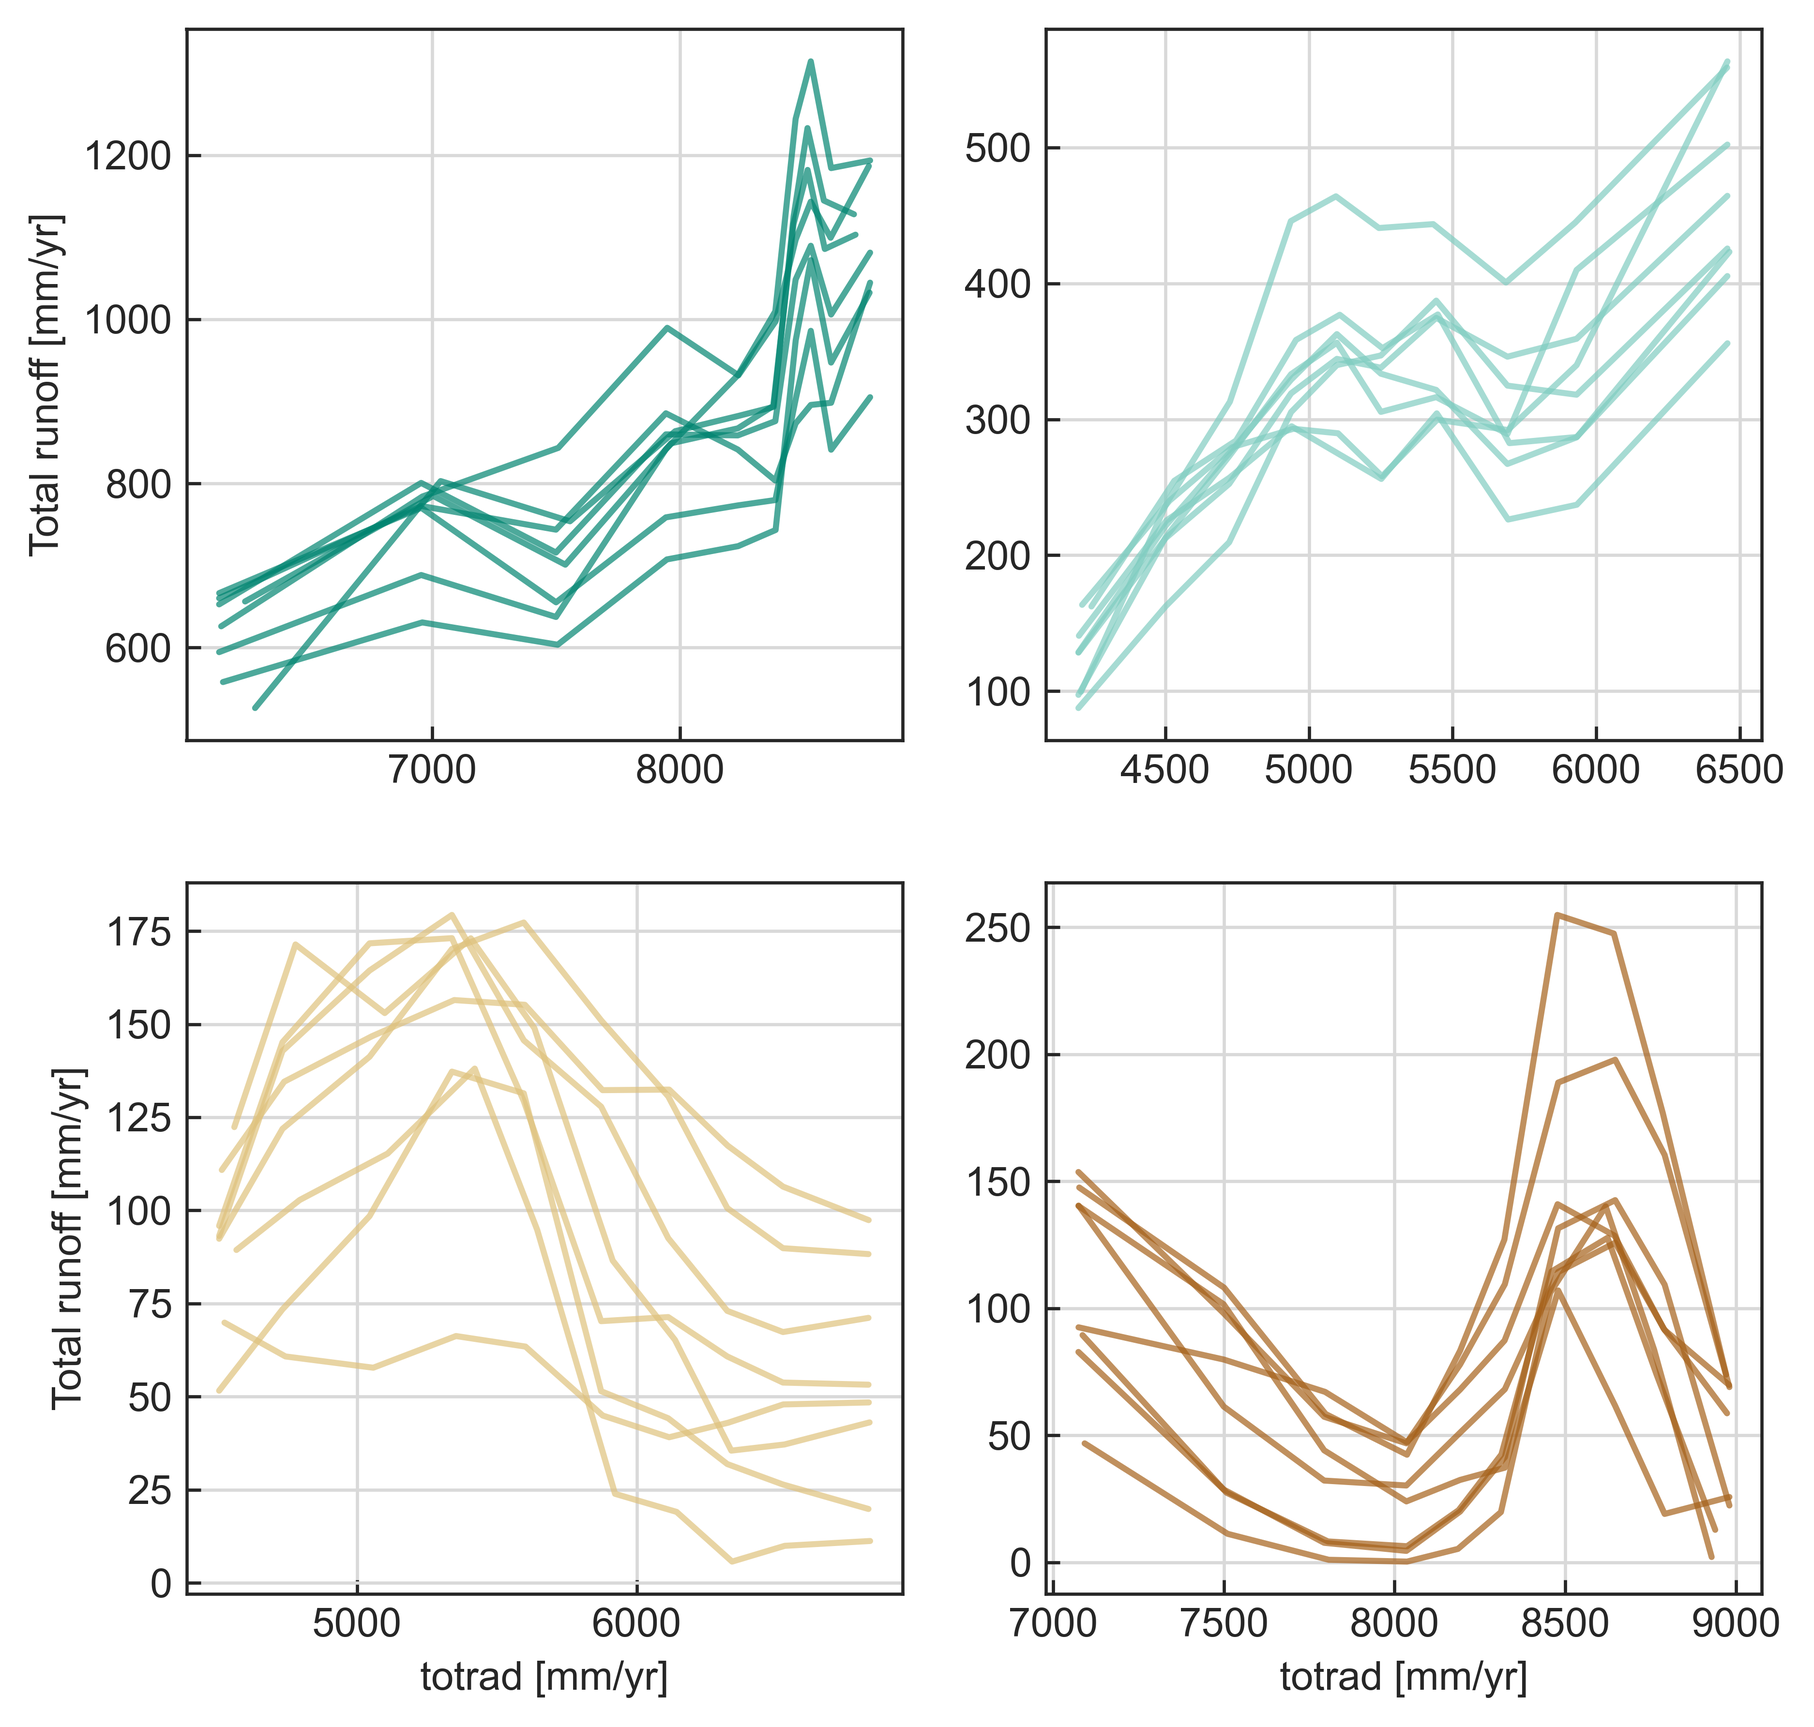
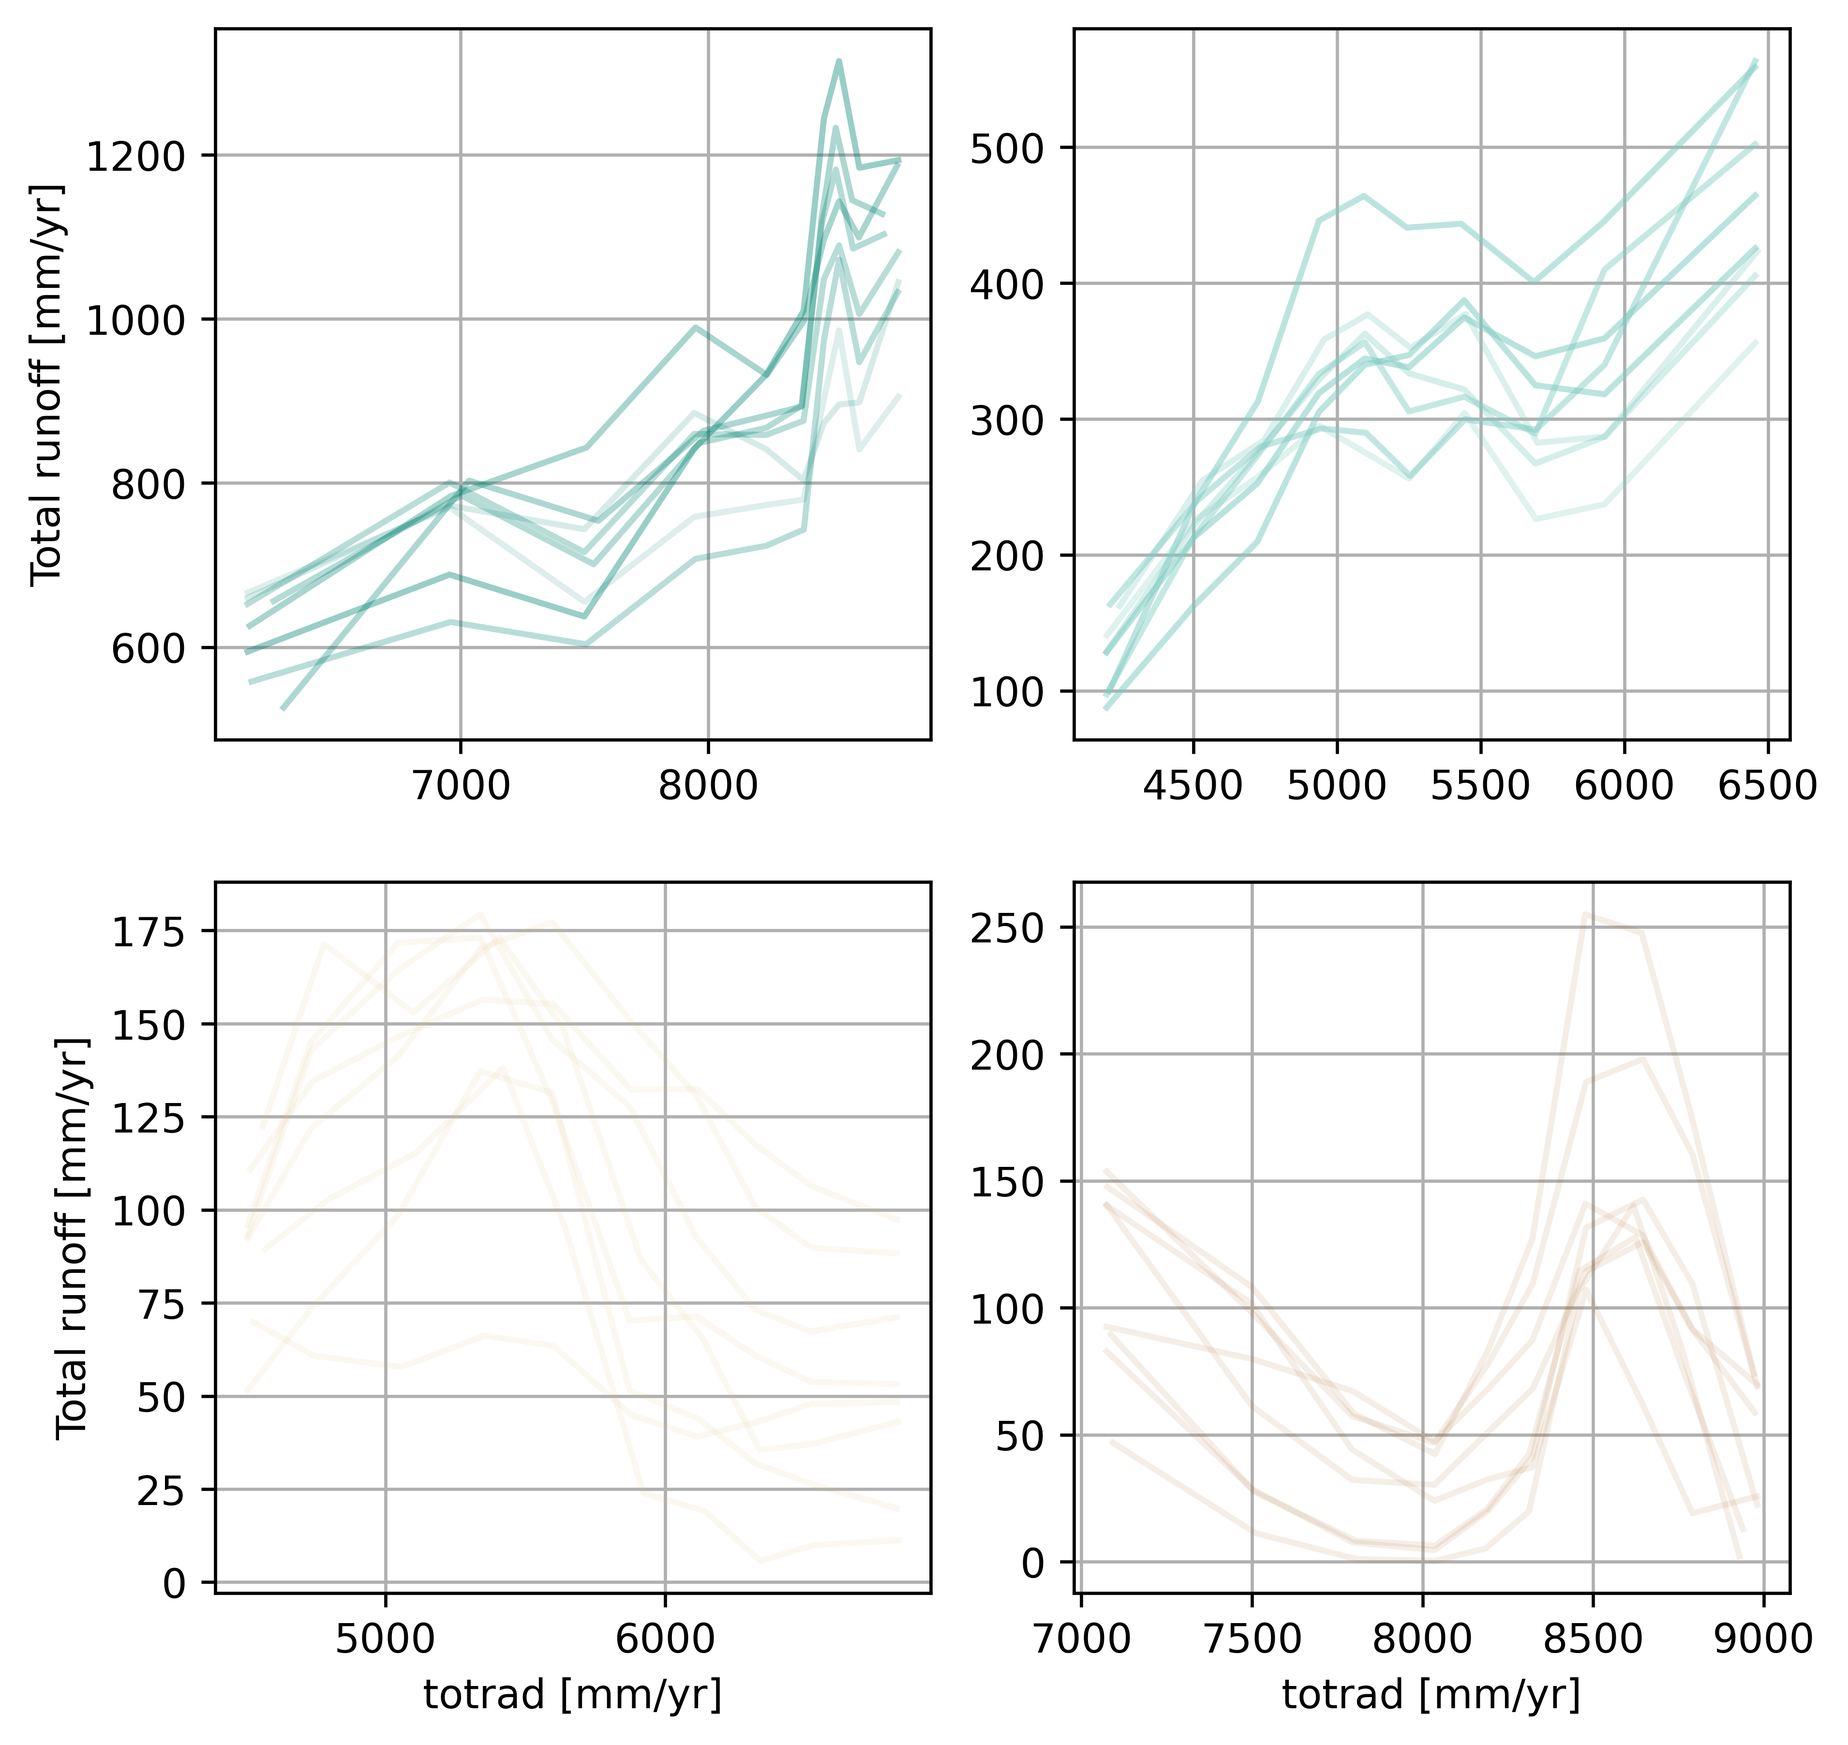
work on code

diff --git a/plotting_script_lines.py b/plotting_script_lines.py
@@ -47,9 +47,9 @@ def lineplots(df):
     df = df.replace(new_names, regex=True)
 
     # define variables
-    x_name_list = ["Precipitation", "Net radiation", "totrad"]
-    x_unit_list = [" [mm/yr]", " [mm/yr]", " [mm/yr]"]
-    x_lim_list = [[-100, 3100], [-100, 2100], [2400, 10100]]
+    x_name_list = ["Precipitation", "Net radiation"] #, "totrad"
+    x_unit_list = [" [mm/yr]", " [mm/yr]"] #, " [mm/yr]"
+    x_lim_list = [[-100, 3100], [-100, 2100]] #, [2400, 10100]
     y_name_list = ["Actual evapotranspiration", "Groundwater recharge", "Total runoff"]
     y_unit_list = [" [mm/yr]", " [mm/yr]", " [mm/yr]"]
     y_lim_list = [[-100, 2100], [-100, 2100], [-100, 2100]]
@@ -101,7 +101,7 @@ def plot_Budyko(d, domain_list, x_name, y_name, axs, n):
         subgroup = df[d] == domain_list[i]
         x = df.loc[subgroup, x_name]
         y = df.loc[subgroup, y_name]
-        plotting_fcts.plot_lines(x, y, axs[i], data_palette, domains, domain_list[i], n=n, ls="dashed")
+        plotting_fcts.plot_lines(x, y, axs[i], data_palette, domains, domain_list[i], n=n, ls="solid")
 
 def plot_FLUXCOM(d, domain_list, x_name, y_name, axs, n):
 
@@ -113,19 +113,21 @@ def plot_FLUXCOM(d, domain_list, x_name, y_name, axs, n):
         subgroup = df[d] == domain_list[i]
         x = df.loc[subgroup, x_name]
         y = df.loc[subgroup, y_name]
-        plotting_fcts.plot_lines(x, y, axs[i], data_palette, domains, domain_list[i], n=n)
+        plotting_fcts.plot_lines(x, y, axs[i], data_palette, domains, domain_list[i], n=n, ls='dashed')
 
 def plot_FLUXNET(d, domain_list, x_name, y_name, axs, n):
 
     data_palette = {"wet warm": '#808080', "dry warm": '#808080',
                     "wet cold": '#808080', "dry cold": '#808080'}
+    data_palette = {"wet warm": '#3B3B3B', "dry warm": '#3B3B3B',
+                    "wet cold": '#3B3B3B', "dry cold": '#3B3B3B'}
     df = pd.read_csv("data/" + "FLUXNET_prepared.csv", sep=',')
 
     for i in range(0, 4):
         subgroup = df[d] == domain_list[i]
         x = df.loc[subgroup, x_name]
         y = df.loc[subgroup, y_name]
-        plotting_fcts.plot_lines(x, y, axs[i], data_palette, domains, domain_list[i], n=n)
+        plotting_fcts.plot_lines(x, y, axs[i], data_palette, domains, domain_list[i], n=n, ls='dotted')
 
 def plot_Moeck(d, domain_list, x_name, y_name, axs, n):
 
@@ -137,46 +139,55 @@ def plot_Moeck(d, domain_list, x_name, y_name, axs, n):
         subgroup = df[d] == domain_list[i]
         x = df.loc[subgroup, x_name]
         y = df.loc[subgroup, y_name]
-        plotting_fcts.plot_lines(x, y, axs[i], data_palette, domains, domain_list[i], n=n)
+        plotting_fcts.plot_lines(x, y, axs[i], data_palette, domains, domain_list[i], n=n, ls='dotted')
 
 def plot_MacDonald(d, domain_list, x_name, y_name, axs, n):
 
     data_palette = {"wet warm": '#808080', "dry warm": '#808080',
                     "wet cold": '#808080', "dry cold": '#808080'}
+    data_palette = {"wet warm": '#3B3B3B', "dry warm": '#3B3B3B',
+                    "wet cold": '#3B3B3B', "dry cold": '#3B3B3B'}
+
     df = pd.read_csv("data/" + "MacDonald_prepared.csv", sep=',')
 
     for i in [3]:
         subgroup = df[d] == domain_list[i]
         x = df.loc[subgroup, x_name]
         y = df.loc[subgroup, y_name]
-        plotting_fcts.plot_lines(x, y, axs[i], data_palette, domains, domain_list[i], n=n)
+        plotting_fcts.plot_lines(x, y, axs[i], data_palette, domains, domain_list[i], n=n, ls='dashed')
 
 def plot_GSIM(d, domain_list, x_name, y_name, axs, n):
 
     data_palette = {"wet warm": '#826d8c', "dry warm": '#826d8c',
                     "wet cold": '#826d8c', "dry cold": '#826d8c'}
+    data_palette = {"wet warm": '#3B3B3B', "dry warm": '#3B3B3B',
+                    "wet cold": '#3B3B3B', "dry cold": '#3B3B3B'}
     df = pd.read_csv("data/" + "GSIM_prepared.csv", sep=',')
 
     for i in range(0, 4):
         subgroup = df[d] == domain_list[i]
         x = df.loc[subgroup, x_name]
         y = df.loc[subgroup, y_name]
-        plotting_fcts.plot_lines(x, y, axs[i], data_palette, domains, domain_list[i], n=n)
+        plotting_fcts.plot_lines(x, y, axs[i], data_palette, domains, domain_list[i], n=n, ls='dotted')
 
 def plot_GRUN(d, domain_list, x_name, y_name, axs, n):
 
     data_palette = {"wet warm": '#808080', "dry warm": '#808080',
                     "wet cold": '#808080', "dry cold": '#808080'}
+    data_palette = {"wet warm": '#3B3B3B', "dry warm": '#3B3B3B',
+                    "wet cold": '#3B3B3B', "dry cold": '#3B3B3B'}
     df = pd.read_csv("data/" + "GRUN_prepared.csv", sep=',')
 
     for i in range(0, 4):
         subgroup = df[d] == domain_list[i]
         x = df.loc[subgroup, x_name]
         y = df.loc[subgroup, y_name]
-        plotting_fcts.plot_lines(x, y, axs[i], data_palette, domains, domain_list[i], n=n)
+        plotting_fcts.plot_lines(x, y, axs[i], data_palette, domains, domain_list[i], n=n, ls='dashdot')
 
 def plot_CARAVAN(d, domain_list, x_name, y_name, axs, n):
 
+    data_palette = {"wet warm": '#3B3B3B', "dry warm": '#3B3B3B',
+                    "wet cold": '#3B3B3B', "dry cold": '#3B3B3B'}
     data_palette = {"wet warm": '#3B3B3B', "dry warm": '#3B3B3B',
                     "wet cold": '#3B3B3B', "dry cold": '#3B3B3B'}
     df = pd.read_csv("data/" + "CARAVAN_prepared.csv", sep=',')
@@ -185,7 +196,7 @@ def plot_CARAVAN(d, domain_list, x_name, y_name, axs, n):
         subgroup = df[d] == domain_list[i]
         x = df.loc[subgroup, x_name]
         y = df.loc[subgroup, y_name]
-        plotting_fcts.plot_lines(x, y, axs[i], data_palette, domains, domain_list[i], n=n)
+        plotting_fcts.plot_lines(x, y, axs[i], data_palette, domains, domain_list[i], n=n, ls='dashed')
 
 def multilineplots(df):
 
@@ -248,26 +259,25 @@ def multilineplots(df):
                 #axs[i].set_title(domain_list[i])
                 plt.grid('major')
 
-                # todo: add data (perhaps with functions...)
                 if x_name=="Precipitation" and y_name=="Actual evapotranspiration":
-                    plot_FLUXCOM(d, domain_list, x_name, y_name, axs, n)
-                    #plot_FLUXNET(d, domain_list, x_name, y_name, axs, n)
-                    plot_Budyko(d, domain_list, x_name, y_name, axs, n)
+                    plot_FLUXCOM(d, domain_list, "Precipitation GSWP3", y_name, axs, n)
+                    #plot_FLUXNET(d, domain_list, "Precipitation", y_name, axs, n)
+                    plot_Budyko(d, domain_list, "Precipitation", y_name, axs, n)
 
                 if x_name=="Precipitation" and y_name=="Groundwater recharge":
-                    plot_MacDonald(d, domain_list, x_name, y_name, axs, n)
-                    plot_Moeck(d, domain_list, x_name, y_name, axs, n)
+                    plot_MacDonald(d, domain_list, "Precipitation", y_name, axs, n)
+                    plot_Moeck(d, domain_list, "Precipitation GSWP3", y_name, axs, n)
 
                 if x_name=="Precipitation" and y_name=="Total runoff":
-                    #plot_GSIM(d, domain_list, x_name, y_name, axs, n)
-                    plot_GRUN(d, domain_list, x_name, y_name, axs, n)
-                    plot_CARAVAN(d, domain_list, x_name, y_name, axs, n)
-                    plot_Budyko(d, domain_list, x_name, y_name, axs, n)
+                    #plot_GSIM(d, domain_list, "Precipitation", y_name, axs, n)
+                    plot_GRUN(d, domain_list, "Precipitation GSWP3", y_name, axs, n)
+                    plot_CARAVAN(d, domain_list, "Precipitation", y_name, axs, n)
+                    plot_Budyko(d, domain_list, "Precipitation", y_name, axs, n)
 
                 if x_name=="Net radiation" and y_name=="Actual evapotranspiration":
-                    plot_FLUXCOM(d, domain_list, x_name, y_name, axs, n)
-                    #plot_FLUXNET(d, domain_list, x_name, y_name, axs, n)
-                    plot_Budyko(d, domain_list, x_name, y_name, axs, n)
+                    plot_FLUXCOM(d, domain_list, "Net radiation", y_name, axs, n)
+                    #plot_FLUXNET(d, domain_list, "Precipitation", y_name, axs, n)
+                    plot_Budyko(d, domain_list, "Net radiation", y_name, axs, n)
 
             fig.savefig(results_path + x_name + '_' + y_name + "_multiline_plot.png", dpi=600, bbox_inches='tight')
             plt.close()
@@ -333,6 +343,6 @@ def regressionplots(df):
 
 ### run functions ###
 
-lineplots(df)
+#lineplots(df)
 multilineplots(df)
-regressionplots(df)
+#regressionplots(df)

diff --git a/plotting_script_maps.py b/plotting_script_maps.py
@@ -184,13 +184,14 @@ def white_spaces_plots(df, ghms):
 
     # define variables
     name_list = ["Actual evapotranspiration", "Groundwater recharge", "Total runoff"]
-    lim_list = [[0, 1], [0, 1], [0, 1]] #lim_list = [[0, .5], [0, .5], [0, .5]] #lim_list = [[0, 2], [0, 2], [0, 2]]
-    #lim_list = [[0, 200], [0, 200], [0, 200]]
-    lim_list = [[0, 1000], [0, 1000], [0, 1000]]
+    lim_list = [[0, 1], [0, 1], [0, 1]] #
+    lim_list = [[0, .2], [0, .2], [0, .2]] #lim_list = [[0, 2], [0, 2], [0, 2]]
+    lim_list = [[0, 200], [0, 200], [0, 200]]
+    #lim_list = [[0, 1000], [0, 1000], [0, 1000]]
     color_scale_list = ['Greens', 'Purples', 'Blues']
 
     # define plot type (coefficient of variation or standard deviation of ratio)
-    var_type = 'mean'#'CoV' #'std' #'ratio'
+    var_type = 'std'#'mean'#'CoV' #'std' #'ratio'
 
     # check if folder exists
     results_path = "results/white_spaces/"
@@ -227,7 +228,7 @@ def white_spaces_plots(df, ghms):
 
         plotting_fcts.plot_map(df_tmp["lon"], df_tmp["lat"], df_tmp["var"],
                                unit, var_type + " (" + name + ")", bounds=np.linspace(lim[0], lim[1], 11),
-                               colormap=color_scale, colormap_reverse=False)
+                               colormap=color_scale, colormap_reverse=True)
         plotting_fcts.mask_greenland(data_path)
         ax = plt.gca()
         ax.coastlines(linewidth=0.25)
@@ -320,9 +321,9 @@ def most_deviating_model_plot(df, ghms):
 
 ### run functions ###
 
-globalmeans(df, ghms, domains)
-map_plots(df, ghms)
-aridity_map_plots(df, ghms)
-outlier_plots(df, ghms)
+#globalmeans(df, ghms, domains)
+#map_plots(df, ghms)
+#aridity_map_plots(df, ghms)
+#outlier_plots(df, ghms)
 white_spaces_plots(df, ghms)
-most_deviating_model_plot(df, ghms)
+#most_deviating_model_plot(df, ghms)

diff --git a/helpers/plotting_fcts.py b/helpers/plotting_fcts.py
@@ -111,9 +111,13 @@ def plot_lines(x, y, ax, palette, domains, domain, n=11, ls="solid"):
     p_05_stat, p_25_stat, p_75_stat, p_95_stat, \
     asymmetric_error, bin_median = get_binned_stats(x, y, n)
 
+    r_sp, _ = stats.spearmanr(x, y, nan_policy='omit')
+    if r_sp < 0.1:
+        r_sp = 0.1
+
     #ax.errorbar(bin_median, median_stat.statistic, xerr=None, yerr=asymmetric_error, capsize=2,
     #            fmt='o', ms=4, elinewidth=1, c='black', ecolor='black', mec='black', mfc=color, alpha=0.9, label=corr_str)
-    ax.plot(bin_median, median_stat.statistic, color=color, alpha=0.7, linestyle=ls) #, path_effects=[outline]
+    ax.plot(bin_median, median_stat.statistic, color=color, alpha=r_sp, linestyle=ls) #, path_effects=[outline]
     #ax.fill_between(bin_median, p_25_stat.statistic, p_75_stat.statistic, facecolor=color, alpha=0.1)
 
 
@@ -126,7 +130,7 @@ def plot_lines_group(x, y, palette, domains, domain, n=11, **kwargs):
     df = kwargs.get('data')
 
     # get correlations
-    df = df.dropna()
+    #df = df.dropna()
     df_group = df.loc[df[domains]==domain]
     color = palette[domain]
 
@@ -151,6 +155,7 @@ def plot_lines_group(x, y, palette, domains, domain, n=11, **kwargs):
     #            fmt='o', ms=4, elinewidth=1, c='black', ecolor='black', mec='black', mfc=color, alpha=0.9, label=corr_str)
     ax.plot(bin_median, median_stat.statistic, color=color, path_effects=[outline])
     #ax.fill_between(bin_median, p_25_stat.statistic, p_75_stat.statistic, facecolor=color, alpha=0.1)
+    #ax.fill_between(bin_median, p_05_stat.statistic, p_95_stat.statistic, facecolor=color, alpha=0.1)
 
 
 def plot_bins(x, y, n=11, **kwargs):

diff --git a/analyse_MOECK.py b/analyse_MOECK.py
@@ -70,6 +70,19 @@ df.loc[df["pr"] > 50000, "pr"] = np.nan  # 65535
 df['pr'] = df['pr'] * 0.1
 """
 
+"""
+# test climate classification
+coord_list = [(x,y) for x,y in zip(df['lon'], df['lat'])]
+cc_path = "C:/Users/gnann/Desktop/16ctquxqxk46h2v61gz7drcdz3/ClimateClassification_mainMap_geoReferenced.tif"
+# open all datasets
+cc = rio.open(cc_path, masked=True)
+df['cc'] = [x for x in cc.sample(coord_list)]
+# transform to np.arrays and rescale variables
+df['cc'] = np.concatenate(df['cc'].to_numpy())
+# remove nodata values
+df.loc[df["cc"] > 50000, "cc"] = np.nan
+"""
+
 # scatter plot
 df = pd.merge(df, df_pr, on=['lat', 'lon'], how='outer')
 df.rename(columns={'pr_median': 'Precipitation', 'netrad_median': 'Net radiation', 'pr_gswp3': 'Precipitation GSWP3',
@@ -82,8 +95,9 @@ df["sort_helper"] = df["sort_helper"].replace({'wet warm': 0, 'wet cold': 1, 'dr
 df = df.sort_values(by=["sort_helper"])
 
 # because many R values are paired with exactly the same P value, this will help binning the data
+# todo: find a better solution... this will randomly place R values into different bins and thus leads to different plots...
 df["Precipitation GSWP3"] = (1+0.001*np.random.rand(len(df["Precipitation GSWP3"])))*df["Precipitation GSWP3"]
-x_name = "pr"
+x_name = "Precipitation GSWP3"
 y_name = "Groundwater recharge"
 x_unit = " [mm/yr]"
 y_unit = " [mm/yr]"
@@ -107,7 +121,7 @@ for axes in g.axes.ravel():
 g.savefig(results_path + x_name + '_' + y_name + "_scatterplot_Moeck.png", dpi=600, bbox_inches='tight')
 plt.close()
 
-x_name = "pr"
+x_name = "Precipitation GSWP3"
 y_name = "Groundwater recharge"
 x_unit = " [mm/yr]"
 y_unit = " [mm/yr]"

diff --git a/analyse_FLUXNET.py b/analyse_FLUXNET.py
@@ -51,7 +51,7 @@ df["sort_helper"] = df["domain_days_below_1_0.08_aridity_netrad"]
 df["sort_helper"] = df["sort_helper"].replace({'wet warm': 0, 'wet cold': 1, 'dry cold': 2, 'dry warm': 3})
 df = df.sort_values(by=["sort_helper"])
 
-x_name = "Precipitation ISIMIP"
+x_name = "Precipitation"
 y_name = "Actual evapotranspiration"
 x_unit = " [mm/yr]"
 y_unit = " [mm/yr]"
@@ -75,7 +75,7 @@ for axes in g.axes.ravel():
 g.savefig(results_path + x_name + '_' + y_name + "_scatterplot_FLUXNET.png", dpi=600, bbox_inches='tight')
 plt.close()
 
-x_name = "Precipitation ISIMIP"
+x_name = "Precipitation"
 y_name = "Actual evapotranspiration"
 x_unit = " [mm/yr]"
 y_unit = " [mm/yr]"

diff --git a/analyse_MacDonald.py b/analyse_MacDonald.py
@@ -65,7 +65,7 @@ df["sort_helper"] = df["domain_days_below_1_0.08_aridity_netrad"]
 df["sort_helper"] = df["sort_helper"].replace({'wet warm': 0, 'wet cold': 1, 'dry cold': 2, 'dry warm': 3})
 df = df.sort_values(by=["sort_helper"])
 
-x_name = "Precipitation GSWP3"
+x_name = "Precipitation"
 y_name = "Groundwater recharge"
 x_unit = " [mm/yr]"
 y_unit = " [mm/yr]"
@@ -89,7 +89,7 @@ for axes in g.axes.ravel():
 g.savefig(results_path + x_name + '_' + y_name + "_scatterplot_MacDonald.png", dpi=600, bbox_inches='tight')
 plt.close()
 
-x_name = "Precipitation GSWP3"
+x_name = "Precipitation"
 y_name = "Groundwater recharge"
 x_unit = " [mm/yr]"
 y_unit = " [mm/yr]"
